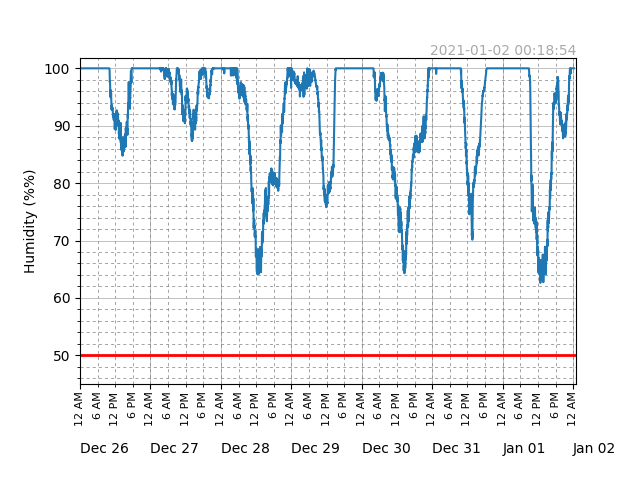
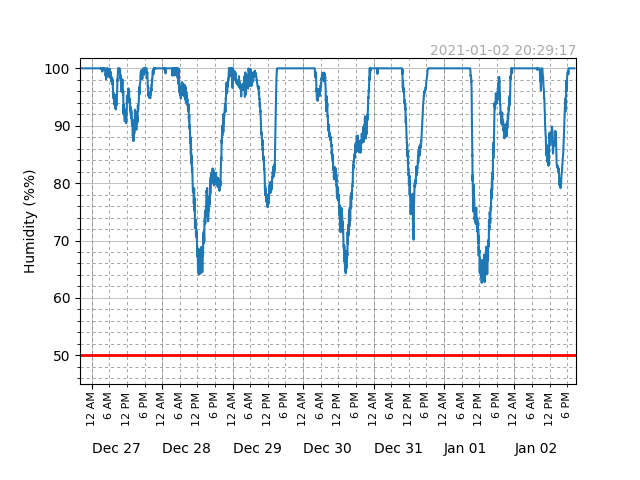
Saturday, 2021Jan02 08:31 pm CST update

diff --git a/weather/index.html b/weather/index.html
@@ -1,5 +1,8 @@
 <!--  Weather Part 1 -->
 
+<!--  Force page refresh every time -->
+< meta http-equiv="Expires" content="-1">
+
 <!DOCTYPE html PUBLIC "-//W3C//DTD XHTML 1.0 Transitional//EN" "http://www.w3.org/TR/xhtml1/DTD/xhtml1-transitional.dtd$
 <html>
 <head>
@@ -29,7 +32,7 @@ img {
 <body>
 
 <!-- Host and Date/Time -->
-Host: raspi0BME at 192.168.1.121  on DKENet<br>Date/Time: Saturday, 2021Jan02 08:02 pm CST <br><br>
+Host: raspi0BME at 192.168.1.121  on DKENet<br>Date/Time: Saturday, 2021Jan02 08:31 pm CST <br><br>
 <!-- Weather Part 2 -->
 
 <table>
@@ -46,7 +49,7 @@ Host: raspi0BME at 192.168.1.121  on DKENet<br>Date/Time: Saturday, 2021Jan02 08
 <!-- tph_stats.html -->
 <tr>
   <td></td>
-  <td style="text-align:center"><p style="font-size:1.5em">2021Jan02 20:03</p></td>
+  <td style="text-align:center"><p style="font-size:1.5em">2021Jan02 20:28</p></td>
   <td></td>
   <td></td>
 </tr>
